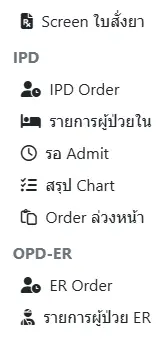
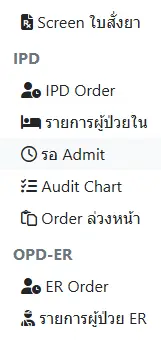
Added ipd-mra

diff --git a/src/general.md b/src/general.md
@@ -41,14 +41,14 @@
 #### IPD
 * [รายการผู้ป่วยใน](ipd/search-patient.md) : แสดงรายการผู้ป่วยใน ที่ยังไม่จำหน่าย โดยจำแนกตาม `แผนก`, [passcode](ipd/search-patient.html#ward-passcode), `แพทย์เจ้าของไข้`, และ `HN, AN, ชื่อ-สกุล` ผู้ป่วย
 * [รอ Admit](ipd/pre-admit.md) : แสดงรายการผู้ป่วยที่ `รอ Admit` หรือถูก `ยกเลิก Admit` แล้ว โดยจำแนกตาม `ประเภท`, `แพทย์เจ้าของไข้` และ `HN, AN, ชื่อ-สกุล` ผู้ป่วย
-* [สรุป Chart](ipd/post-admit.md) : แสดงรายการผู้ป่วยที่ `จำหน่ายแล้ว` จำแนกตาม `แผนก`, [passcode](ipd/search-patient.html#ward-passcode), `แพทย์ผู้ Admit`, `แพทย์ผู้ Discharge`, `วันที่จำหน่าย` และ `HN, AN, ชื่อ-สกุล` ผู้ป่วย
-* [IPD Vital Sign](shared/vital-sign.md) : แสดงรายการผู้ป่วยใน โดยจำแนกตาม `หน่วยงาน` และสามารถบันทึกข้อมูล `Vital Sign` ผู้ป่วยได้
+* [Audit Chart](ipd/post-admit.md) : แสดงรายการผู้ป่วยที่ `จำหน่ายแล้ว` จำแนกตาม `แผนก`, [passcode](ipd/search-patient.html#ward-passcode), `แพทย์ผู้ Admit`, `แพทย์ผู้ Discharge`, `วันที่จำหน่าย` และ `HN, AN, ชื่อ-สกุล` ผู้ป่วย
+* [IPD Vital Sign](ipd/vital-sign.md) : แสดงรายการผู้ป่วยใน โดยจำแนกตาม `หน่วยงาน` และสามารถบันทึกข้อมูล `Vital Sign` ผู้ป่วยได้
 * [IPD Nurse Planning](ipd/nurse-planning.md) : แสดงรายการ `แผนการพยาบาล` ผู้ปวยใน โดยจำแนกตาม `แผนก`, `วันที่`, `สุถานะ` และ `HN, AN, ชื่อ-สกุล` ผู้ป่วย
 * [Order ล่วงหน้า](ipd/pre-order.md) : แสดงรายการ `ใบ Order` หรือ `Template`(Order สั้นๆ ที่สามารถใช้ซ้ำได้) ที่สร้างไว้ล่วงหน้า ด้วยการ `เพิ่มใบ Order ใหม่`
 * [รายการผู้ป่วย Consult](ipd/consult.md) : แสดงรายการผู้ป่วยที่มีการขอ `คำปรึกษา` เข้ามา โดยจำแนกตาม `แผนกที่รับ Consult`, `แพทย์ผู้รับ Consult`, `แพทย์ผู้ตอบ Consult` และ `HN, AN, ชื่อ-สกุล` ผู้ป่วย
 #### OPD-ER
 * [รายการผู้ป่วย ER](opd-er/order-list.md) : แสดงรายการ `ผู้ป่วยนอก/อุบัติเหตุ` ที่เข้าสู่ระบบแล้ว ด้วยการ `เพิ่มใบ Order ใหม่` และยังไม่จำหน่าย โดยจำแนกตาม `วันที่บันทึกรายการ`, `วันที่ส่งตรวจ`, `HN`, `QN`, `เตียง`, และ `สถานะ` ผู้ป่วย
-* [ER Vital Sign](shared/vital-sign.md) : แสดงรายการผู้ป่วยนอก/อุบัติเหตุ สามารถบันทึกข้อมูล `Vital Sign` ผู้ป่วยได้
+* [ER Vital Sign](opd-er/vital-sign.md) : แสดงรายการผู้ป่วยนอก/อุบัติเหตุ สามารถบันทึกข้อมูล `Vital Sign` ผู้ป่วยได้
 * [ER Nurse Planning](opd-er/nurse-planning.md) : แสดงรายการ `แผนการพยาบาล` ผู้ปวยนอก/อุบัติเหตุ โดยจำแนกตาม `วันที่`, `สุถานะ` และ `HN, AN, ชื่อ-สกุล` ผู้ป่วย
 
 ### เมนูเจ้าหน้าที่ `เภสัชกร` 
@@ -58,7 +58,7 @@
 * [IPD Order](ipd/order-pharmacy.md) : แสดงรายการใบสั่งยาผู้ป่วยใน โดยสามารถ Update อัตโนมัติ พร้อมเสียงเตือน โดยจำแนกตาม `แผนก`, `แพทย์เจ้าของไข้`, `ช่วงวันที่ Order` และ `HN, AN, ชื่อ-สกุล` ผู้ป่วย
 * [รายการผู้ป่วยใน](ipd/search-patient.md) : แสดงรายการผู้ป่วยใน ที่ยังไม่จำหน่าย โดยจำแนกตาม `แผนก`, `แพทย์เจ้าของไข้`, `การประเมินข้อมูลแพ้ยาใบแรกรับ` และ `HN, AN, ชื่อ-สกุล` ผู้ป่วย
 * [รอ Admit](ipd/pre-admit.md) : แสดงรายการผู้ป่วยที่ `รอ Admit` หรือถูก `ยกเลิก Admit` แล้ว โดยจำแนกตาม `ประเภท`, `แพทย์เจ้าของไข้` และ `HN, AN, ชื่อ-สกุล` ผู้ป่วย
-* [สรุป Chart](ipd/post-admit.md) : แสดงรายการผู้ป่วยที่ `จำหน่ายแล้ว` จำแนกตาม `แผนก`, `แพทย์ผู้ Admit`, `แพทย์ผู้ Discharge`, `วันที่จำหน่าย` และ `HN, AN, ชื่อ-สกุล` ผู้ป่วย
+* [Audit Chart](ipd/post-admit.md) : แสดงรายการผู้ป่วยที่ `จำหน่ายแล้ว` จำแนกตาม `แผนก`, `แพทย์ผู้ Admit`, `แพทย์ผู้ Discharge`, `วันที่จำหน่าย` และ `HN, AN, ชื่อ-สกุล` ผู้ป่วย
 * [Order ล่วงหน้า](ipd/pre-order.md) : แสดงรายการ `ใบ Order` หรือ `Template`(Order สั้นๆ ที่สามารถใช้ซ้ำได้) ที่สร้างไว้ล่วงหน้า ด้วยการ `เพิ่มใบ Order ใหม่`
 #### OPD-ER
 * [ER Order](opd-er/order-pharmacy.md) : แสดงรายการใบสั่งยาผู้ป่วยนอก/อุบัตเหตุ โดยสามารถ Update อัตโนมัติ พร้อมเสียงเตือน โดยจำแนกตาม `แพทย์เจ้าของไข้`, `ช่วงวันที่ Order` และ `HN, VN, ชื่อ-สกุล` ผู้ป่วย
@@ -69,7 +69,7 @@
 #### IPD
 * [รายการผู้ป่วยใน](ipd/search-patient.md) : แสดงรายการผู้ป่วยใน ที่ยังไม่จำหน่าย โดยจำแนกตาม `แผนก`, [passcode](ipd/search-patient.html#ward-passcode), `แพทย์เจ้าของไข้` และ `HN, AN, ชื่อ-สกุล` ผู้ป่วย
 * [รอ Admit](ipd/pre-admit.md) : แสดงรายการผู้ป่วยที่ `รอ Admit` หรือถูก `ยกเลิก Admit` แล้ว โดยจำแนกตาม `ประเภท`, `แพทย์เจ้าของไข้` และ `HN, AN, ชื่อ-สกุล` ผู้ป่วย
-* [สรุป Chart](ipd/post-admit.md) : แสดงรายการผู้ป่วยที่ `จำหน่ายแล้ว` จำแนกตาม `แผนก`, [passcode](ipd/search-patient.html#ward-passcode), `แพทย์ผู้ Admit`, `แพทย์ผู้ Discharge`, `วันที่จำหน่าย` และ `HN, AN, ชื่อ-สกุล` ผู้ป่วย
+* [Audit Chart](ipd/post-admit.md) : แสดงรายการผู้ป่วยที่ `จำหน่ายแล้ว` จำแนกตาม `แผนก`, [passcode](ipd/search-patient.html#ward-passcode), `แพทย์ผู้ Admit`, `แพทย์ผู้ Discharge`, `วันที่จำหน่าย` และ `HN, AN, ชื่อ-สกุล` ผู้ป่วย
 * [Order ล่วงหน้า](ipd/pre-order.md) : แสดงรายการ `ใบ Order` หรือ `Template`(Order สั้นๆ ที่สามารถใช้ซ้ำได้) ที่สร้างไว้ล่วงหน้า ด้วยการ `เพิ่มใบ Order ใหม่`
 #### OPD-ER
 * [รายการผู้ป่วย ER](opd-er/order-list.md) : แสดงรายการ `ผู้ป่วยนอก/อุบัติเหตุ` ที่เข้าสู่ระบบแล้ว และยังไม่จำหน่าย โดยจำแนกตาม `วันที่บันทึกรายการ`, `วันที่ส่งตรวจ`, `HN`, `QN`, `เตียง`, และ `สถานะ` ผู้ป่วย

diff --git a/src/SUMMARY.md b/src/SUMMARY.md
@@ -5,31 +5,32 @@
 - [การใช้งานทั่วไป](general.md)
 - [อุบัติเหตุและฉุกเฉิน (ER)](opd-er/README.md)
     - [รายการผู้ป่วย ER](opd-er/order-list.md)
+    - [ER Vital Sign](opd-er/vital-sign.md)
+    - [ER Nurse Planning](opd-er/nurse-planning.md)
+    - [รอรับใบสั่งยา (เภสัชกรรม)](opd-er/order-pharmacy.md)
     - [แฟ้มผู้ป่วย ER](opd-er/main.md)
     - [ประวัติผู้ป่วย ER](opd-er/medical-history.md)
-    - [บันทึกคำสั่งแพทย์](opd-er/order.md)
-    - [ER Nurse Planning](opd-er/nurse-planning.md)
     - [จัดทำเอกสาร](opd-er/document.md)
-    - [รอรับใบสั่งยา (เภสัชกรรม)](opd-er/order-pharmacy.md)
 
 - [ผู้ป่วยใน (IPD)](ipd/README.md)
     - [รายการผู้ป่วยใน](ipd/search-patient.md)
-    - [แฟ้มผู้ป่วยใน](ipd/main.md)
     - [รอ Admit](ipd/pre-admit.md)
-    - [สรุป Chart](ipd/post-admit.md)
-    - [Order ล่วงหน้า](ipd/pre-order.md)
+    - [สรุป/Audit Chart](ipd/post-admit.md)
+    - [IPD Vital Sign](ipd/vital-sign.md)
     - [IPD Nurse Planning](ipd/nurse-planning.md)
+    - [Order ล่วงหน้า](ipd/pre-order.md)
+    - [ขอคำปรึกษา (Consult)](ipd/consult.md)
+    - [รอรับใบสั่งยา (เภสัชกรรม)](ipd/order-pharmacy.md)
+    - [แฟ้มผู้ป่วยใน](ipd/main.md)
     - [บันทึกประวัติและตรวจร่างกายแรกรับ](ipd/admission-note-dr.md)
     - [ประเมินสภาพผู้ป่วยแรกรับและแบบแผนสุขภาพ](ipd/admission-note-nurse.md)
-    - [บันทึกการทบทวนยา (Medical Reconciliation)](ipd/med-reconciliation.md)
-    - [บันทึกคำสั่งแพทย์](ipd/order.md)
     - [ระบุแพทย์เจ้าของไข้](ipd/doctor-in-charge.md)
-    - [ขอคำปรึกษา (Consult)](ipd/consult.md)
     - [บันทึกการสรุปเวชระเบียน (In-Patient Summary)](ipd/summary.md)
     - [จัดทำเอกสาร](ipd/document.md)
-    - [รอรับใบสั่งยา (เภสัชกรรม)](ipd/order-pharmacy.md)
 
 - [ระบบงานร่วม](shared/README.md)
+    - [บันทึกการทบทวนยา (Medical Reconciliation)](shared/med-reconciliation.md)
+    - [บันทึกคำสั่งแพทย์](shared/order.md)
     - [บันทึกสัญญาณชีพ (Vital Sign)](shared/vital-sign.md)
     - [บันทึกปัญหาทางการพยาบาล (Focus List)](shared/focus-list.md)
     - [บันทึกความก้าวหน้าทางการพยาบาล (Nurse Note)](shared/focus-note.md)
@@ -46,10 +47,11 @@
     - [ระบบจัดการผู้ใช้งาน](other/user-list.md)
     - [ระบบจัดการบทบาทผู้ใช้งาน](other/permission-list.md)
 
-- [เพิ่มเติมจาก KPHIS ดั้งเดิม](extra/README.md)
+- [เพิ่มเติมจาก KPHIS ต้นฉบับ](extra/README.md)
     - [ระบบออกแบบเอกสาร (Report Designer)](extra/report-designer.md)
     - [ระบบรูปภาพ](extra/image.md)
     - [ระบบข้อความ](extra/message.md)
+    - [ระบบทบทวนเวชระเบียนผู้ป่วยใน (IPD-MRA)](extra/ipd-mra.md)
 
 - [วิธีการเขียนต้นฉบับ](howto-contribute.md)
     - [เตรียมพร้อมเขียนหนังสือ](howto-code.md)

diff --git a/src/ipd/README.md b/src/ipd/README.md
@@ -6,7 +6,7 @@
 
 ## กระบวนการบริการ
 ### แรกรับ
-1. ใช้ระบบ `รอ Admit`
+1. สร้างชุดรับใหม่ ใน KPHIS ก่อน `Admit` ใน HOSxP
     * เปิดเมนู `รอ Admit`
     * กดปุ่ม `เพิ่มใบ Order ใหม่`
     * กดปุ่ม <i class="fa fa-search"></i> เพื่อค้นหา Visit ที่ต้องการ แล้วกดปุ่ม `บันทึก`
@@ -20,13 +20,13 @@
     หลังจากเจ้าหน้าที่ `Admit` ใน HOSxP แล้ว ระบบจะย้ายข้อมูลผู้ป่วย จากประเภท `รอ Admit` เป็นประเภท `Admit แล้ว`
     </div>
 
-1. ใช้ระบบ KPHIS ดั้งเดิม
+1. บันทึก `Admit` ใน HOSxP ก่อน ค่อยสร้างชุดรับใหม่ ใน KPHIS
     * บันทึก `Admit` ใน HOSxP
     * เปิดเมนู `รายการผู้ป่วยใน` และค้นหาผู้ป่วยที่ต้องการ เพื่อ [บันทึกประวัติและตรวจร่างกายแรกรับ](admission-note-dr.md) และ [บันทึกคำสั่งแพทย์](order.md) ต่อไป
 
     <div class="warning">
 
-    ในระบบ KPHIS ดั้งเดิม เมนู `รายการผู้ป่วยใน` จะแสดงเฉพาะผู้ป่วยที่ `Admit` ใน HOSxP เรียบร้อยแล้ว และยังไม่จำหน่ายเท่านั้น
+    เมนู `รายการผู้ป่วยใน` ในระบบ KPHIS จะแสดงเฉพาะผู้ป่วยที่ `Admit` ใน HOSxP เรียบร้อยแล้ว และยังไม่จำหน่ายเท่านั้น
 
     แพทย์จะต้องรอให้เจ้าหน้าที่ ทำการ `Admit` ใน HOSxP ก่อน ถึงจะบันทึกประวัติ และคำสั่งแพทย์ได้  
     </div>
@@ -44,8 +44,10 @@
 * พยาบาล
     - [บันทึกปัญหาทางการพยาบาล (Focus List)](../shared/focus-list.md)
     - [บันทึกความก้าวหน้าทางการพยาบาล (Nurse Note)](../shared/focus-note.md)
+    - [บันทึกแผนและกิจกรรมทางการพยาบาล (Index Plan/Action)](../shared/index-plan.md) หรือบันทึกผ่าน [IPD Nurse Planning](nurse-planning.md)
+
 * เจ้าหน้าที่
-    - [บันทึกสัญญาณชีพ](../shared/vital-sign.md)
+    - [บันทึกสัญญาณชีพ](../shared/vital-sign.md) หรือบันทึกผ่าน [IPD Vital Sign](vital-sign.md)
     - [บันทึกสมดุลน้ำ (Intake-Output: I/O)](../shared/io.md)
 
 ### การรักษาพยาบาล
@@ -54,7 +56,6 @@
     - [ขอคำปรึกษา (Consult)](consult.md)
 * พยาบาล
     - รับ Order ตาม [บันทึกคำสั่งแพทย์](order.md)
-    - [บันทึกแผนและกิจกรรมทางการพยาบาล (Index Plan/Action)](../shared/index-plan.md)
 * เภสัชกร
     - [รอรับใบสั่งยา](order-pharmacy.md)
     - บันทึกจ่ายยา ใน HOSxP

diff --git a/src/opd-er/README.md b/src/opd-er/README.md
@@ -4,7 +4,7 @@
 
 ## กระบวนการบริการ
 - แพทย์/พยาบาล บันทึก [ประวัติผู้ป่วย ER](medical-history.md)
-- [บันทึกสัญญาณชีพ](../shared/vital-sign.md) หากมีการเปลี่ยนแปลง
+- [บันทึกสัญญาณชีพ](../shared/vital-sign.md)
 - แพทย์/พยาบาล บันทึกการให้บริการใน HOSxP
 - เภสัชกร [รอรับใบสั่งยา](order-pharmacy.md)
 - เภสัชกร บันทึกจ่ายยาใน HOSxP
@@ -16,9 +16,9 @@
 - [บันทึกคำสั่งแพทย์](order.md)
 - [บันทึกปัญหาทางการพยาบาล (Focus List)](../shared/focus-list.md)
 - [บันทึกความก้าวหน้าทางการพยาบาล (Nurse Note)](../shared/focus-note.md)
-- [บันทึกแผนและกิจกรรมทางการพยาบาล (Index Plan/Action)](../shared/index-plan.md)
-- [บันทึกสัญญาณชีพ](../shared/vital-sign.md)
-- [บันทึกสมดุล (Intake-Output: I/O)](../shared/io.md)
+- [บันทึกแผนและกิจกรรมทางการพยาบาล (Index Plan/Action)](../shared/index-plan.md) หรือบันทึกที่ [ER Nurse Planning](nurse-planning.md)
+- [บันทึกสัญญาณชีพ](../shared/vital-sign.md) หรือบันทึกที่ [ER Vital Sign](vital-sign.md)
+- [บันทึกสมดุลน้ำ (Intake-Output: I/O)](../shared/io.md)
 ### แพทย์ให้ Admit
 - [แรกรับ ผู้ป่วยใน](../ipd/index.html#แรกรับ)
 - [ระบบงานผู้ป่วยใน](../ipd/index.html)

diff --git a/src/ipd/main.md b/src/ipd/main.md
@@ -2,8 +2,8 @@
 
 ## ระบบงานย่อยในแฟ้มผู้ป่วย
 ![IPD Order Tab](images/ipd-main-tab.webp)
-* [Med Reconciliation](med-reconciliation.md) : ทบทวนยาเดิมผู้ป่วย ทั้งจากข้อมูล HOSxP และบันทึกเพิ่มเองได้
-* [Order & Index](order.md) : บันทึก Order และ Progress Note
+* [Med Reconciliation](../shared/med-reconciliation.md) : ทบทวนยาเดิมผู้ป่วย ทั้งจากข้อมูล HOSxP และบันทึกเพิ่มเองได้
+* [Order & Index](../shared/order.md) : บันทึก Order และ Progress Note
 * [Vital Sign](../shared/vital-sign.md) : บันทึก Vital Sign, แสดงกราฟสัญญาณชีพ
 * [I/O](../shared/io.md) : บันทึกสมดุลน้ำ
 * [Nursing Progress Note](../shared/focus-note.md) : แสดงความก้าวหน้าทางการพยาบาล, [บันทึกปัญหาทางการพยาบาล (Focus List)](../shared/focus-list.md) และ [บันทึกความก้าวหน้าทางการพยาบาล (Nurse Note)](..shared/focus-note.md)

diff --git a/src/opd-er/main.md b/src/opd-er/main.md
@@ -26,7 +26,8 @@
 ## ระบบงานย่อยในแฟ้มผู้ป่วย
 ![OPD-ER Order Tab](images/opd-er-main-tab.webp)
 * [ประวัติผู้ป่วย](medical-history.md) : แสดงประวัติใน HOSxP, บันทึก Trauma care (ABCDE)
-* [Order](order.md) : บันทึก Order และ Progress Note
+* [Med Reconciliation](../shared/med-reconciliation.md) : ทบทวนยาเดิมผู้ป่วย ทั้งจากข้อมูล HOSxP และบันทึกเพิ่มเองได้
+* [Order](../shared/order.md) : บันทึก Order และ Progress Note
 * [Vital Sign](../shared/vital-sign.md) : บันทึก Vital Sign, แสดงกราฟสัญญาณชีพ
 * [I/O](../shared/io.md) : บันทึกสมดุลน้ำ
 * [Nursing Progress Note](../shared/focus-note.md) : แสดงความก้าวหน้าทางการพยาบาล, [บันทึกปัญหาทางการพยาบาล (Focus List)](../shared/focus-list.md) และ [บันทึกความก้าวหน้าทางการพยาบาล (Nurse Note)](..shared/focus-note.md)

diff --git a/src/extra/README.md b/src/extra/README.md
@@ -1,4 +1,4 @@
-# เพิ่มเติมจาก KPHIS ดั้งเดิม
+# เพิ่มเติมจาก KPHIS ต้นฉบับ
 
 - [ระบบออกแบบเอกสาร (Report Designer)](extra/report-designer.md) : ระบบสำหรับทดลองสร้างรายงาน โดยอ้างอิงจากรายงานในระบบ ท่านสามารถแก้ไขรายงานด้วยภาษา [Typst](https://typst.app/docs)  และแก้ไขชุดข้อมูล [json](https://www.json.org/) ได้
 - [ระบบรูปภาพ](extra/image.md) : ระบบอัพโหลดและแสดงรูปภาพใน KPHIS เพื่อใช้ประโยชน์ในการดูแลรักษาผู้ป่วย

diff --git a/src/shared/README.md b/src/shared/README.md
@@ -1,5 +1,7 @@
 # ระบบงานร่วม
 รวมระบบงานที่มีหน้าต่างการใช้งานและระบบงานเหมือนกัน ทั้งในงาน [อุบัติเหตุและฉุกเฉิน (ER)](../opd-er/index.html) และงาน [ผู้ป่วยใน (IPD)](../ipd/index.html)
+* [บันทึกการทบทวนยา (Medical Reconciliation)](med-reconciliation.md)
+* [บันทึกคำสั่งแพทย์](order.md)
 * [บันทึกสัญญาณชีพ (Vital Sign)](vital-sign.md)
 * [บันทึกปัญหาทางการพยาบาล (Focus List)](focus-list.md)
 * [บันทึกความก้าวหน้าทางการพยาบาล (Nurse Note)](focus-note.md)

diff --git a/src/extra/ipd-mra.md b/src/extra/ipd-mra.md
@@ -1,0 +1,1 @@
+# ระบบทบทวนเวชระเบียนผู้ป่วยใน (IPD Medical Record Audit: MRA)

diff --git a/src/ipd/vital-sign.md b/src/ipd/vital-sign.md
@@ -1,0 +1,1 @@
+# IPD Vital Sign

diff --git a/src/opd-er/vital-sign.md b/src/opd-er/vital-sign.md
@@ -1,0 +1,1 @@
+# ER Vital Sign
